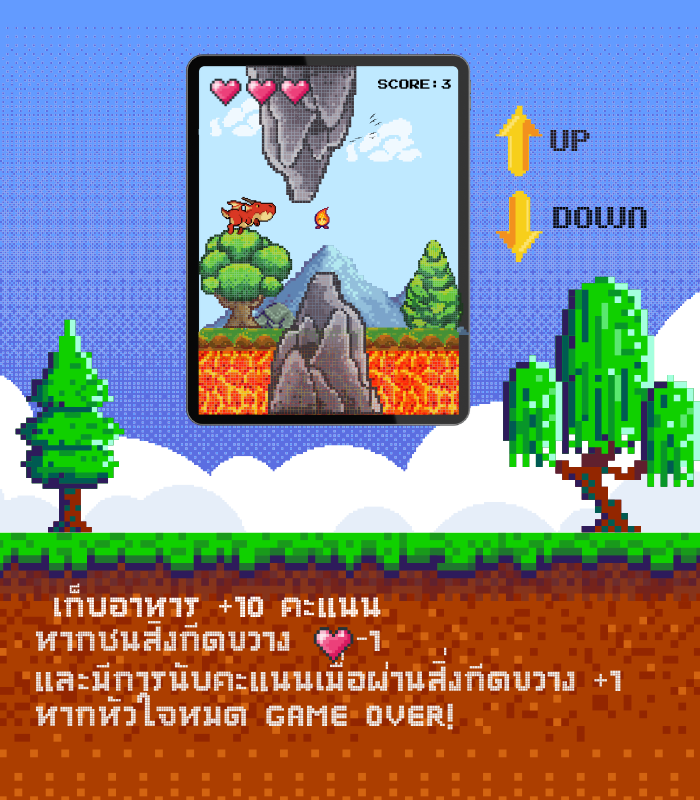
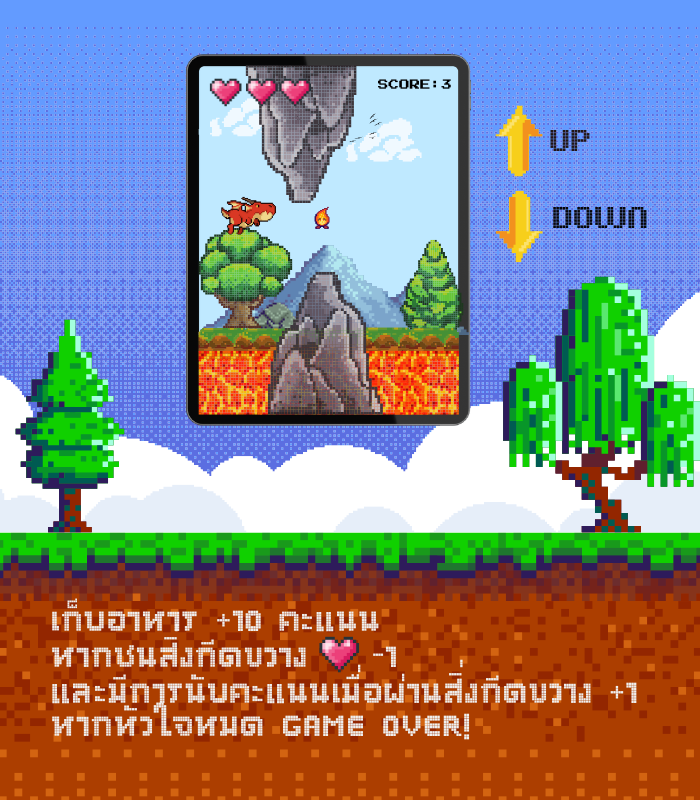
howtoplay

Changed region(s): [[0.03, 0.7188, 0.93, 0.9375]]

diff --git a/src/Game/Howtoplay.java b/src/Game/Howtoplay.java
@@ -1,0 +1,37 @@
+package Game;
+
+import javax.swing.ImageIcon;
+import javax.swing.JFrame;
+import javax.swing.JLabel;
+import javax.swing.JPanel;
+
+public class Howtoplay {
+	private  Lobby lobby;
+	private JFrame frame;
+	private JLabel screen;
+	private JPanel panel;
+
+	public Howtoplay(JFrame j) {
+		frame = j ;
+		frame.setSize(700, 800);
+		frame.setDefaultCloseOperation(JFrame.EXIT_ON_CLOSE);
+		frame.setResizable(false);
+		frame.setVisible(true); 
+
+		JPanel panel = new JPanel();
+	    panel.setLayout(null); 
+		ImageIcon BG_Howto = new ImageIcon("src/images/Howtoplay_BG.png");
+		
+		screen = new JLabel();
+	    screen.setIcon(BG_Howto);
+	    screen.setBounds(0, 0, 700, 800);
+	    panel.add(screen);
+	      
+	    frame.add(panel);
+	    frame.setVisible(true);
+		
+	}
+	
+	
+    
+}

diff --git a/src/Game/Lobby.java b/src/Game/Lobby.java
@@ -14,6 +14,7 @@ public class Lobby {
     private JButton button_score;
     private JButton button_exit;
     private  Character_page characterPage;
+	protected Howtoplay Howtoplay;
 
     public Lobby(JFrame f) {
         ImageIcon background = new ImageIcon("src\\images\\background_lobby.png");
@@ -100,6 +101,15 @@ public class Lobby {
         
     }
 });
+        button_howto.addActionListener(new ActionListener() {
+            public void actionPerformed(ActionEvent e) {
+            	frame.getContentPane().removeAll();
+            	frame.repaint();
+                Howtoplay= new Howtoplay(frame);
+                
+                
+            }
+        });
     }
 }
     
